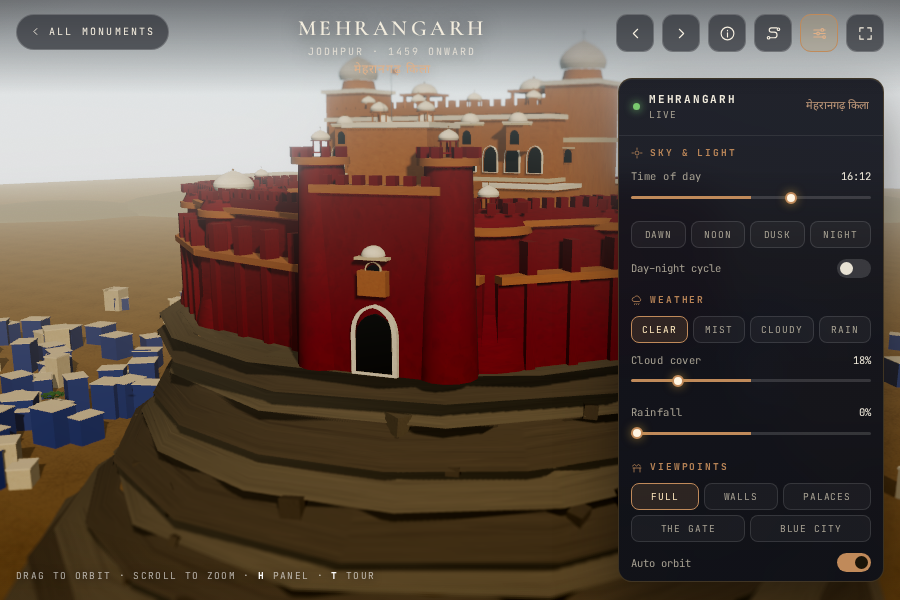
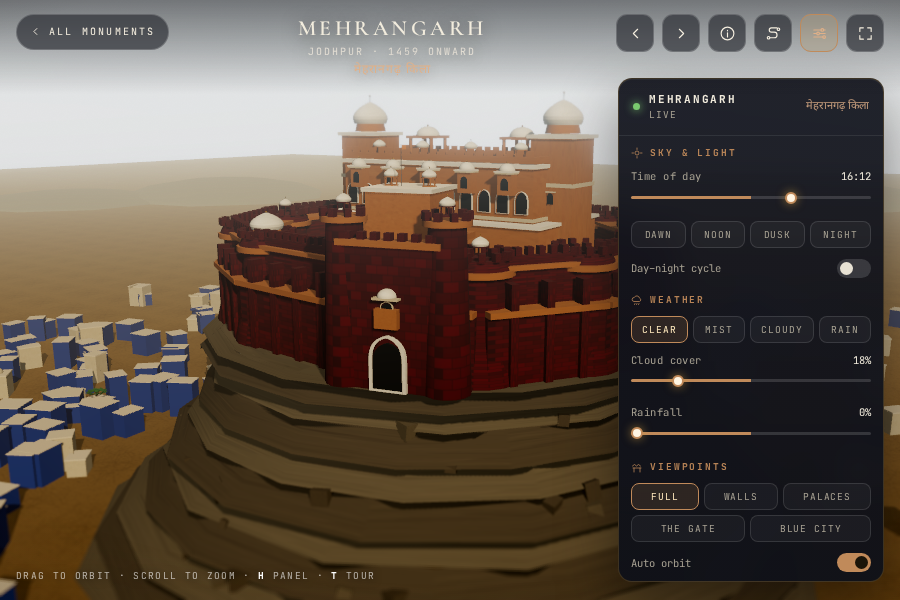
Mehrangarh: duller red-brown walls
The curtain was sandstoneRed under a warm key, which read as bright orange.
Brick is the duller red-brown of the real fort.

diff --git a/assets/js/monuments/mehrangarh-fort.js b/assets/js/monuments/mehrangarh-fort.js
@@ -57,7 +57,7 @@ export default {
     const rng = ctx.rng;
 
     const rock = 'basalt', ledge = 'grey', boulder = 'basaltDark';
-    const wall = 'sandstoneRed', stone2 = 'sandstoneBuff', trim = 'marble', white = 'plasterWhite';
+    const wall = 'brick', stone2 = 'sandstoneBuff', trim = 'marble', white = 'plasterWhite';
 
     /* ==================================================================== *
      *  1. THE ROCK — a truncated cone, stratified, with a bouldered skirt
